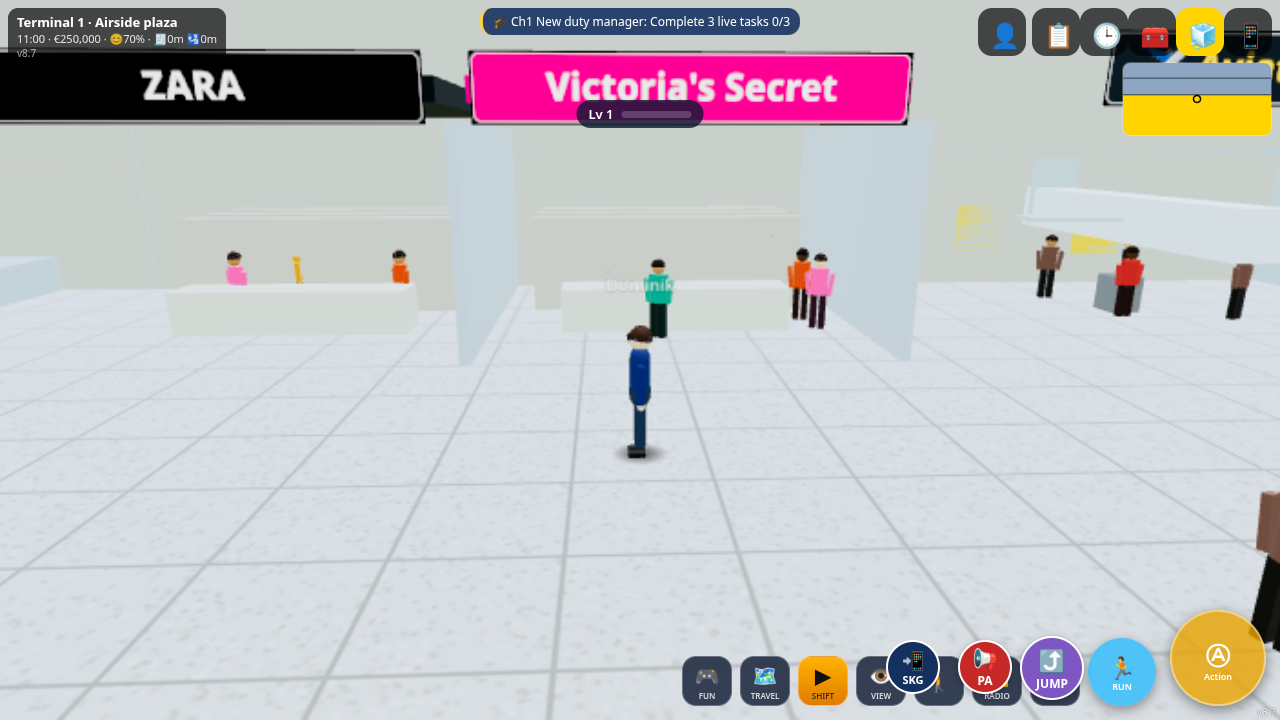
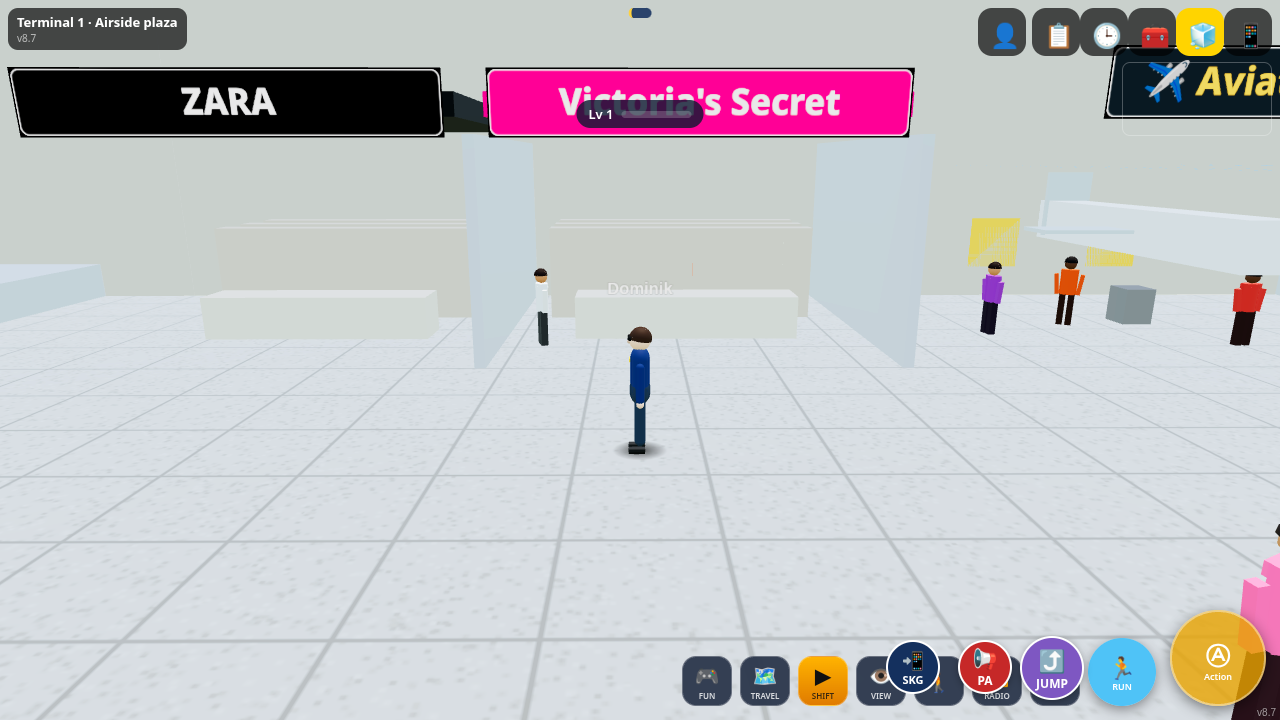
v8.7b: richer airside/gate lounges, Lufthansa sign fix, board shots

diff --git a/index.html b/index.html
@@ -3043,7 +3043,7 @@ function term7(T){const grp=new T3.Group();grp.name='T'+T.id;SCN.add(grp);T.grp=
   for(let s=-1;s<=1;s+=2){for(let k=0;k<13;k++){const z=48+k*2.4;S.box(1.1,1.05,1.8,'#e6e9ee',ix+s*1.25,.53,z);S.box(.08,.5,.7,A.col,ix+s*1.6,1.55,z);T7.deskN++;T.desks.push([ix+s*2.2,z])}
    for(let r=0;r<5;r++)for(let k=0;k<30;k++)if(Math.random()<.68)st.push([ix+s*(3.4+r*.95)+rnd(-.15,.15),0,48.5+k*.98,s>0?-Math.PI/2:Math.PI/2]);
    for(let r=0;r<=5;r++){S.box(.06,.95,30,'#9aa0a8',ix+s*(2.95+r*.95),.48,63.2);}}
-  S.box(2.4,1.8,.3,A.col,ix,3.4,45.6);sign7(Q,'al:'+al,ix,5.2,45.4,7,Math.PI);sign7(Q,'al:'+al,ix,5.2,78.6,7,0);S.box(.2,4,.2,'#555',ix,7,45.5);
+  S.box(2.4,1.8,.3,A.col,ix,3.4,45.6);sign7(Q,'al:'+al,ix,5.2,45.4,7,Math.PI);sign7(Q,'al:'+al,ix,5.2,78.6,7,0);sign7(Q,'al:'+al,ix,5.2,45.75,7,0);sign7(Q,'al:'+al,ix,5.2,78.25,7,Math.PI);S.box(.2,4,.2,'#555',ix,7,45.5);
   colY(ix-1.9,ix+1.9,46.6,77.6,0,3);items.push({k:'desk7',al,x:ix+2.4,z:62,fy:0,t:'🧾 '+A.name+' check-in',ic:'🧾',area3:'t'+T.id+'ck'})}
  for(let k=0;k<70;k++)st.push([rnd(x0+6,x1-6),0,rnd(80,84.5),rnd(0,6.3)]);
  // security lanes
@@ -4655,5 +4655,24 @@ NEW4.push(['✨','SKG app: dark mode, flight timeline, gate route, live planes, 
 
 // 3D gate screens: estimated time strip when delayed
 const _bd20=brdDraw7;brdDraw7=function(T){_bd20(T);try{const C=T.c7;if(!C||!C.g)return;const g=C.g.cv.getContext('2d'),F=FL7();(T.gates||[]).forEach((G_,i)=>{const x=(i%8)*256,y=Math.floor(i/8)*128,f=(F.d[T.id]||[]).find(f=>f.g===G_.n);if(!f)return;const d=et20(f)!==f.t;g.fillStyle=d?'#ef6c00':'#132a52';g.fillRect(x+136,y+100,118,26);g.fillStyle='#fff';g.font='bold 16px system-ui';g.fillText((d?'Est ':'Sched ')+hm7(et20(f)),x+142,y+119)});C.g.needsUpdate=true}catch(e){}};
+
+// v8.7b: richer airside — carpet, gate lounges, seat rows, gate desks, apron window mullions, ceiling lights, shop interiors
+function air21(){if(!window.T3||!SCN)return;const S=PL(),Lt=[],P=['#d4af37','#b71c1c','#263238','#f8bbd0','#90caf9','#fff','#6d4c41','#2e7d32','#ff7043'];
+ TERMS.filter(T=>!T.sat).forEach(T=>{const A=REG.find(r=>r.a===`t${T.id}air`);if(!A)return;const cx=(A.x0+A.x1)/2;
+  // carpet + plaza seating + lights
+  S.box(A.x1-A.x0-30,.04,A.z1-A.z0-6,'#34495e',cx,.03,(A.z0+A.z1)/2);
+  for(let k=0;k<5;k++){const bx=A.x0+40+k*(A.x1-A.x0-80)/4;for(let r=0;r<2;r++){S.box(8,.42,.55,'#263238',bx,.42,A.z0+12+r*2.2).box(8,.55,.12,'#37474f',bx,.85,A.z0+12.25+r*2.2)}S.cyl(1.2,.9,'#795548',bx,.45,A.z0+20,10).box(1.4,2,1.4,'#388e3c',bx,1.9,A.z0+20)}
+  for(let x=A.x0+12;x<A.x1-6;x+=16)for(let z=A.z0+6;z<A.z1;z+=12)Lt.push([UB7(),'#fffbe8',MX(x,8.4,z,0,0,0,6,.08,1.2)]);
+  // shop interiors behind the shop fronts
+  W3.items.filter(i=>i.k==='shop7'&&Math.abs(i.x-cx)<(A.x1-A.x0)/2+20).forEach((s,k)=>{const d=s.x<cx?-1:1,ix=s.x+d*4;for(let r=0;r<2;r++){const zz=s.z-2+r*3.2;S.box(.6,1.8,2.6,'#eceff1',ix+d*r*1.6,.9,zz);for(let q=0;q<4;q++)for(let lv=0;lv<3;lv++)S.box(.3,.35,.45,P[(q+lv+r+k)%9],ix+d*r*1.6-d*.35,.45+lv*.55,zz-1+q*.62)}S.box(1.2,1,2.2,'#37474f',s.x+d*1.2,.5,s.z+3.6).box(.4,.9,.3,'#263238',s.x+d*2.2,.45,s.z+3.6).box(.5,.7,.35,'#00897b',s.x+d*2.2,1.25,s.z+3.6).box(.3,.3,.3,'#e0b48c',s.x+d*2.2,1.8,s.z+3.6);Lt.push([UB7(),'#fff3c4',MX(ix,4.5,s.z,0,0,0,3,.06,5)])});
+  // piers: gate lounges
+  REG.filter(r=>new RegExp(`^t${T.id}p\\d+$`).test(r.a)).forEach(R=>{const px=(R.x0+R.x1)/2,pw=R.x1-R.x0;S.box(pw-1,.04,R.z1-R.z0,'#3b4a63',px,.03,(R.z0+R.z1)/2);
+   for(let z=R.z0+2;z<R.z1;z+=4)[R.x0+.15,R.x1-.15].forEach(x=>S.box(.18,6,.18,'#263238',x,3,z));
+   for(let z=R.z0+6;z<R.z1;z+=10)Lt.push([UB7(),'#fffbe8',MX(px,6.2,z,0,0,0,pw*.5,.06,1.2)]);
+   for(let gz=R.z1-13;gz>R.z0+8;gz-=30)[-1,1].forEach(sd=>{const wx=sd<0?R.x0:R.x1;for(let r=0;r<3;r++){const sx=wx-sd*(3+r*1.6);S.box(.55,.42,9,'#1e3a5f',sx,.42,gz-6).box(.12,.55,9,'#274b7a',sx-sd*.25,.85,gz-6);for(let a=-4;a<=4;a+=2)S.box(.6,.08,.08,'#90a4ae',sx,.66,gz-6+a)}
+     S.box(1,1.05,2.4,'#eceff1',wx-sd*6.5,.52,gz+1.5).box(1.05,.1,2.5,'#1565c0',wx-sd*6.5,1.08,gz+1.5).box(.4,.9,.3,'#263238',wx-sd*7.3,.45,gz+1.5).box(.5,.7,.35,'#0d47a1',wx-sd*7.3,1.25,gz+1.5).box(.3,.3,.3,'#e0b48c',wx-sd*7.3,1.8,gz+1.5)})});
+ });
+ plMesh(S,SCN,false);SCN.add(new T3.Mesh(mergeC(Lt),litm6()))}
+const _b21=build7;build7=function(){const r=_b21.apply(this,arguments);try{air21()}catch(e){console.warn('air21',e)}return r};
 
 </script></body></html>
